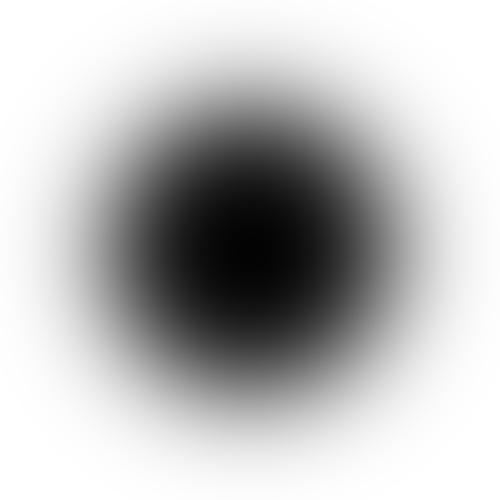
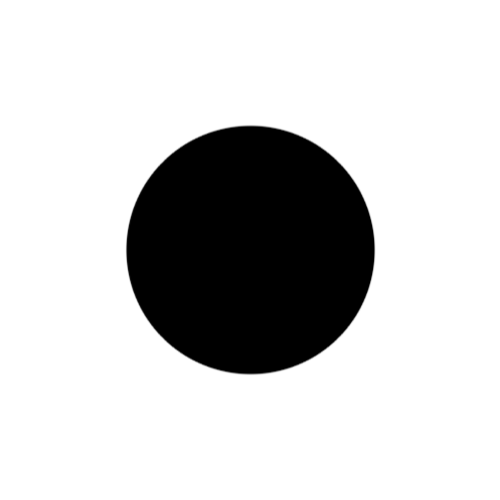
new new indicator of rating

diff --git a/client/src/App.css b/client/src/App.css
@@ -107,6 +107,7 @@ h1, h2, h3, h4, h5, h6, ul, ol, p{
   height: 100%;
   z-index: 10;
   background: rgba(0, 0, 0, 0.75);
+  z-index: 50;
 }
 
 .timer{
@@ -270,20 +271,25 @@ h1, h2, h3, h4, h5, h6, ul, ol, p{
   }
     .feedback-interface-meta:before,
     .feedback-interface-meta:after{
+      background-color: #393625;
       display: block;
       content: '';
       position: absolute;     
-      background-size: contain;
-      width: calc(var(--row-height) * 0.4 );
+      background-size: contain;      
       height: calc(var(--row-height) * 0.4 );
+      line-height: calc(var(--row-height) * 0.4 );
+      white-space: nowrap;
+      z-index: 10;
     }
     .feedback-interface-meta:before{
-      background-image: url('./images/bar-rating-bad.png');
-      left: 4.4rem;
+      left: 0.7rem;
+      content: 'non ti piace';
+      padding-right: .4em;
     }
     .feedback-interface-meta:after{
-      background-image: url('./images/bar-rating-good.png');
-      right: 4.4rem;
+      right: 0.7rem;
+      content: 'ti piace';
+      padding-left: .4em;
     }
 
   /* .feedback-interface-meta .negative-region{
@@ -302,13 +308,22 @@ h1, h2, h3, h4, h5, h6, ul, ol, p{
     left: 50%;
     transform: translateX(-50%);
   }
+    .feedback-interface-meta .indicator-track:before{
+      width: 100%;
+      height: 1px;
+      background-color: #000000;
+      display: block;
+      content: '';
+      top: 50%;
+      position: absolute;
+    }
   .feedback-interface-meta .indicator{    
     /* background-color: white; */
     position: absolute;
     transition: left .3s linear;
     /* border-radius: 50%; */
-    width: calc( var(--row-height) * 0.2 );
-    height: calc( var(--row-height) * 0.2 );
+    width: calc( var(--row-height) * 0.14);
+    height: calc( var(--row-height) * 0.14 );
     /* background-color: white; */
     /* filter: blur( 10px ); */
     /* opacity: 0.2; */
@@ -316,7 +331,7 @@ h1, h2, h3, h4, h5, h6, ul, ol, p{
     top: 50%;
     transform: translateX(-50%) translateY( -50% );
     background-size: contain;
-    opacity: 0.4;
+    opacity: 0.9;
   }
 
   .feedback-interface-buttons{

diff --git a/client/src/App.js b/client/src/App.js
@@ -129,12 +129,12 @@ function App() {
 
       {( !queueInfo.isQueued && !isInLobby ) 
         ? <section className='app-join'>
-          <button 
-            className="button button--join"
-            onClick={() => { socket.emit( 'ready-to-play' )}}
-          >
-            PARTECIPA
-          </button> 
+            <button 
+              className="button button--join"
+              onClick={() => { socket.emit( 'ready-to-play' )}}
+            >
+              PARTECIPA
+            </button> 
           </section>
         : '' 
       }

diff --git a/client/src/components/StatePlay.js b/client/src/components/StatePlay.js
@@ -100,7 +100,7 @@ function StatePlay(){
                     </div>
                 </div>
                 <div>
-                    <h1 className="section-title">Il tuo voto:</h1>
+                    {/* <h1 className="section-title">Il tuo voto:</h1> */}
                     <div className='feedback-interface-meta'>
                         <div className="negative-region" style={{width: ratingToPercent( NEGATIVE_SENTIMENT_THRESHOLD) + '%'}}></div>
                         <div className="indicator-track">
